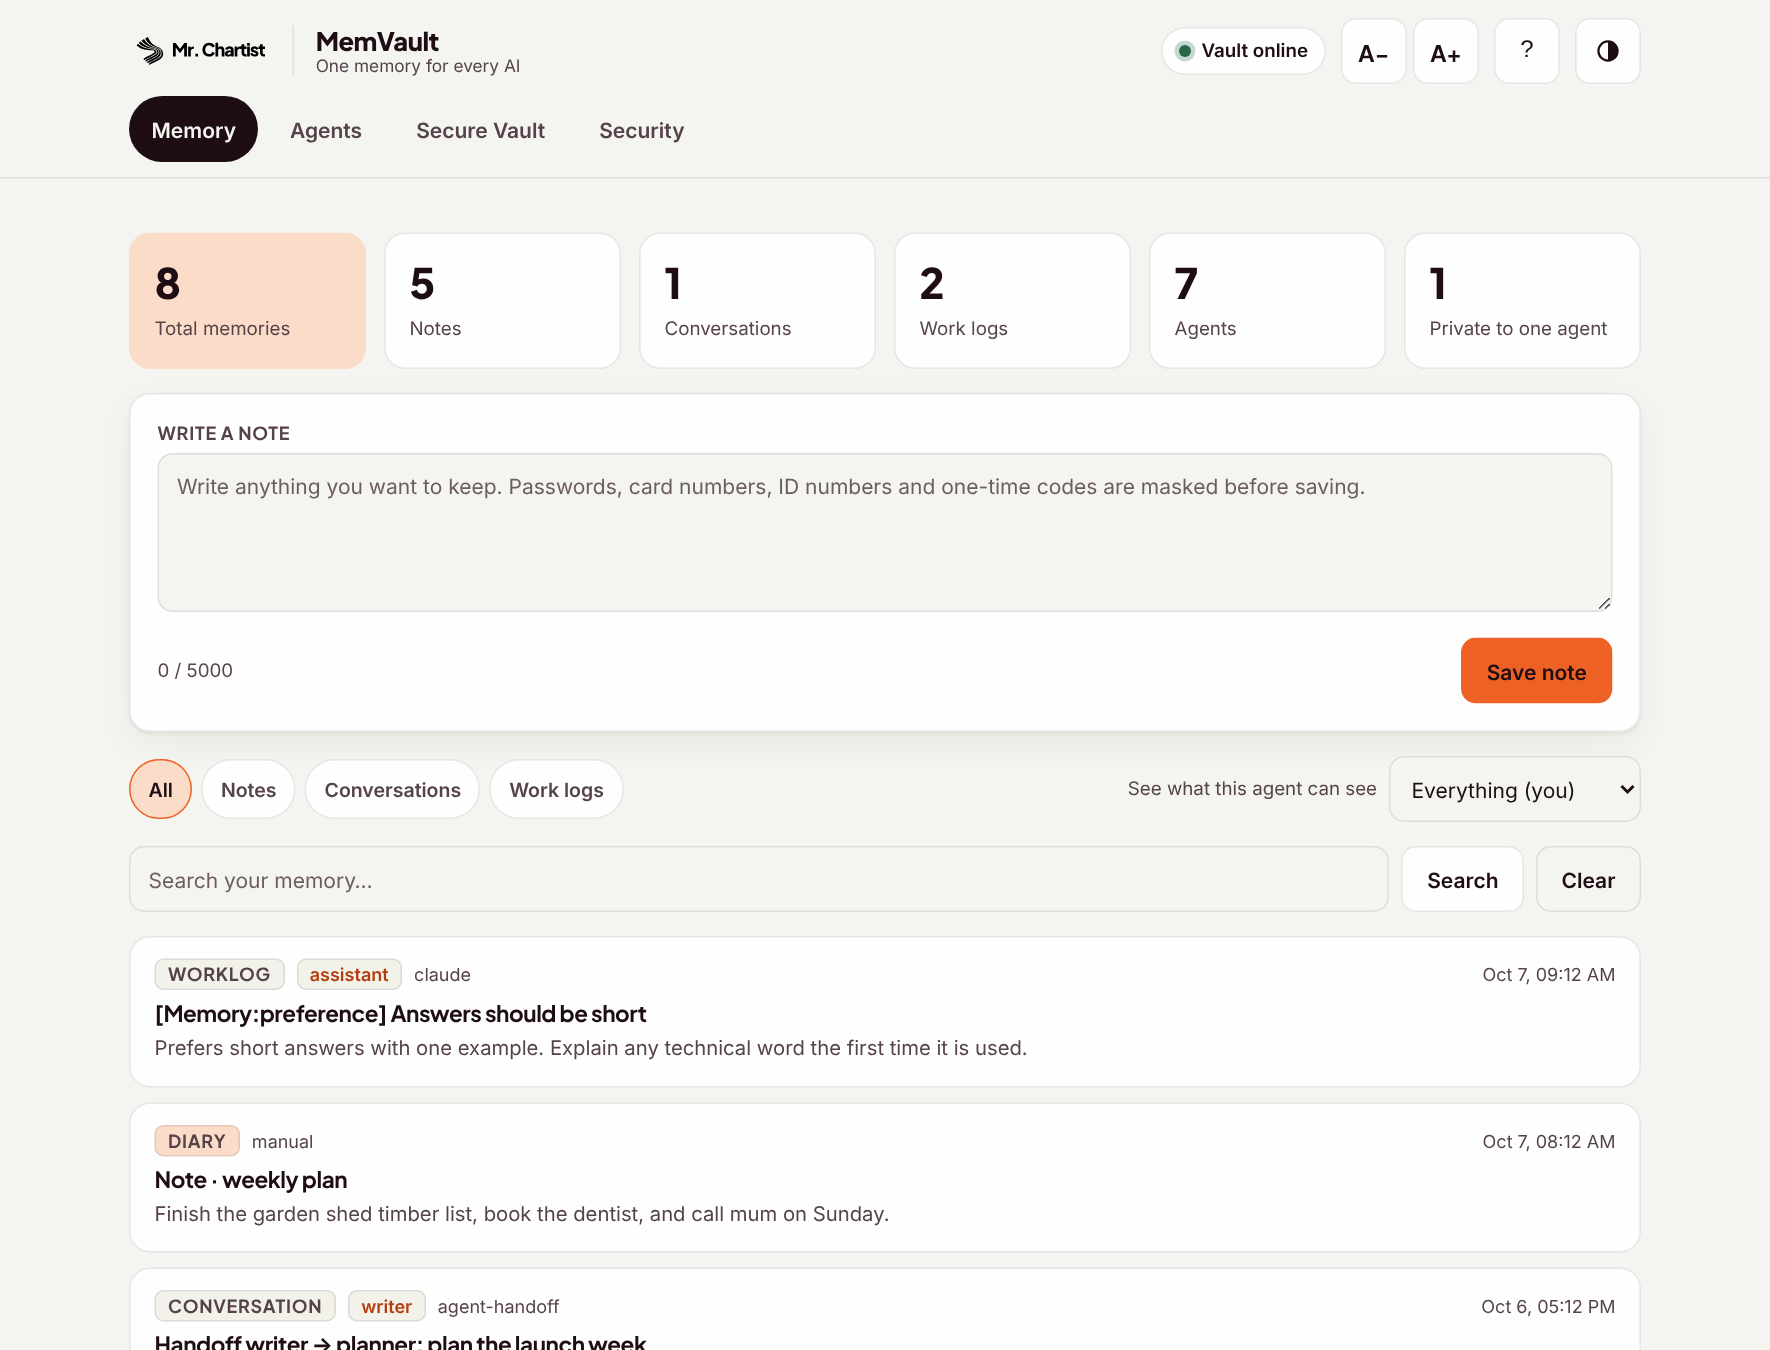
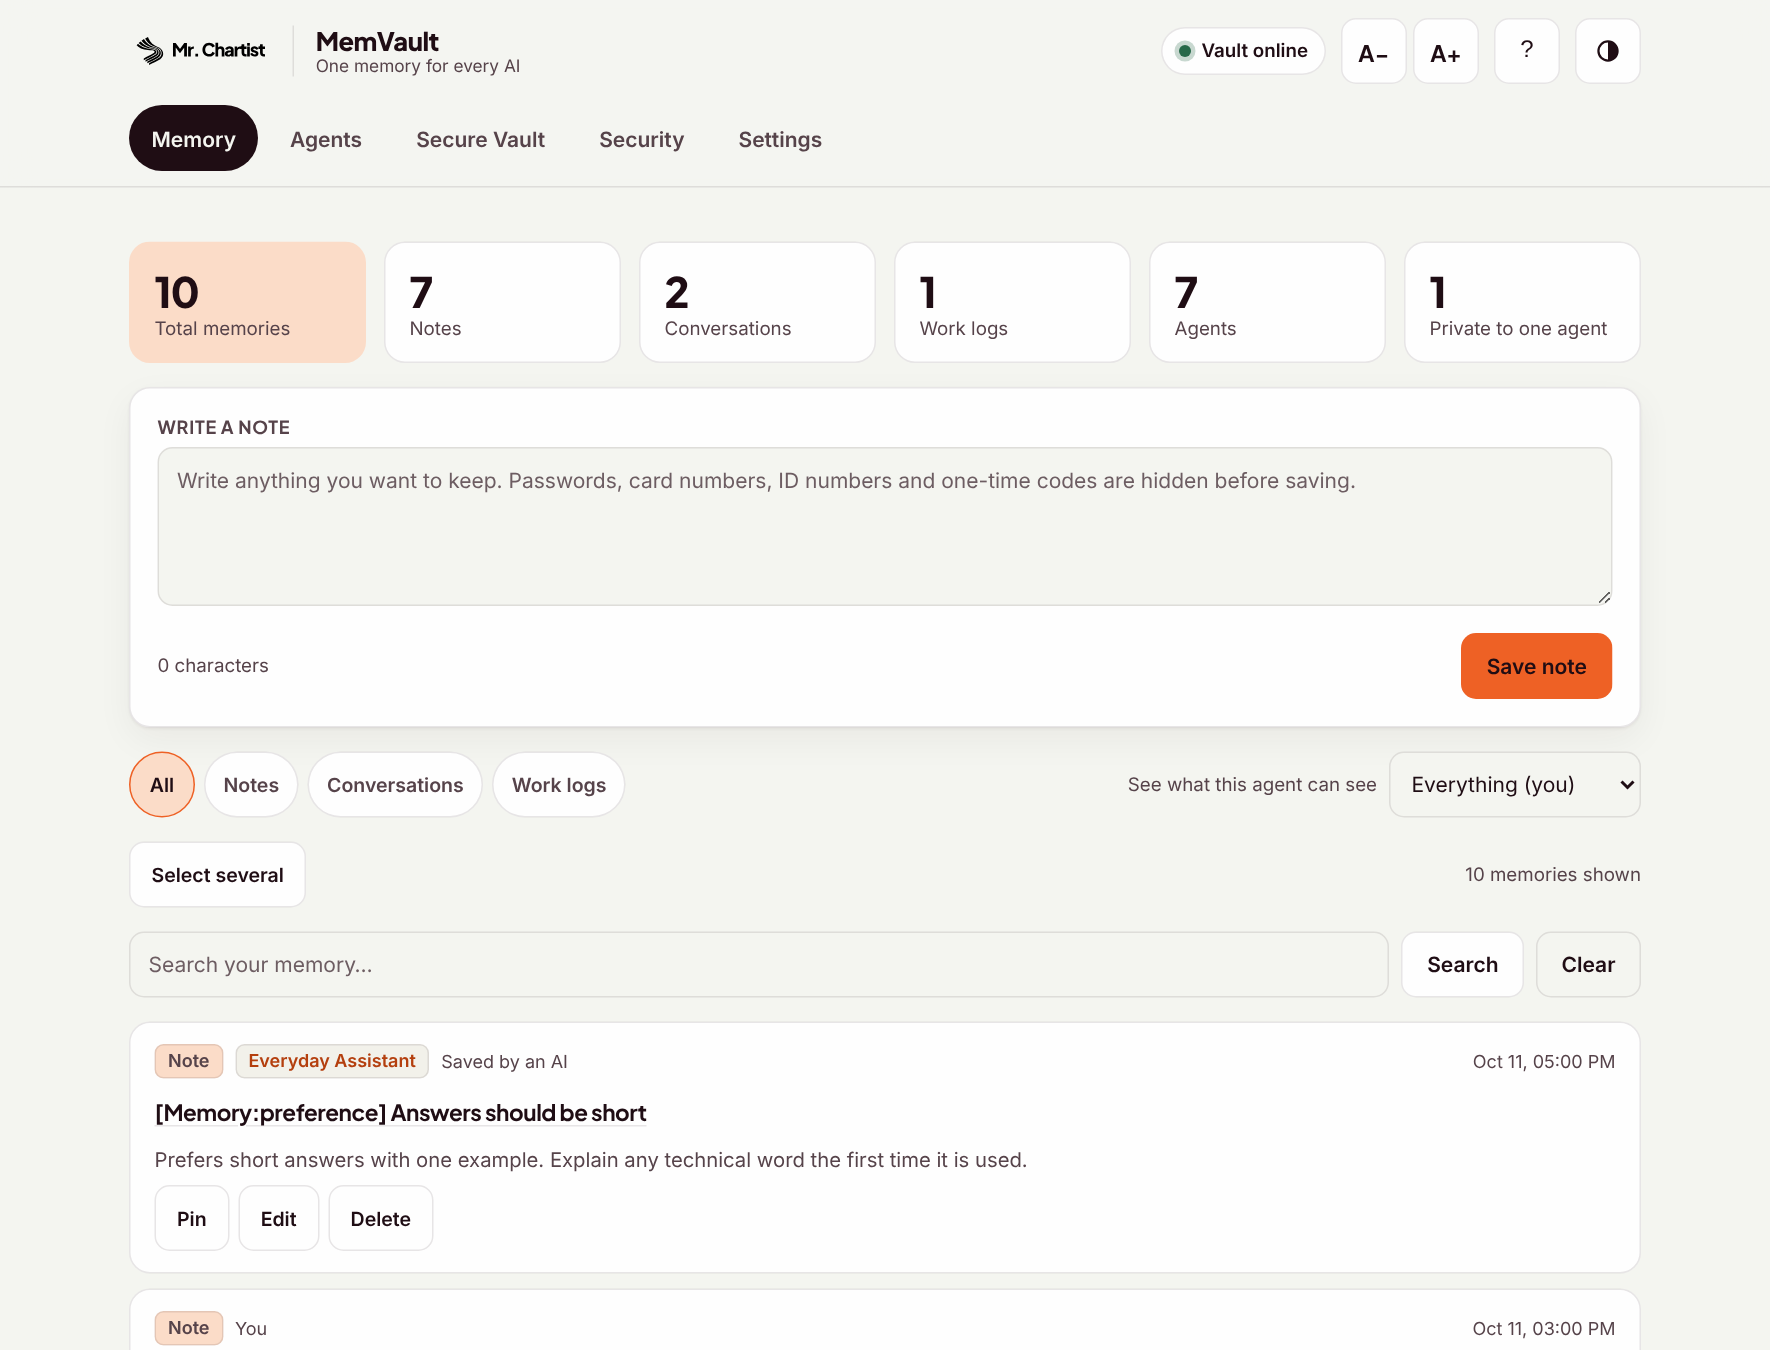
feat(site): fresh screenshots of the new dashboard, a devices screenshot, accessible page
- `npm run screenshots` retook every README and site screenshot from the
  current dashboard (the old ones had no Settings tab), plus a new
  docs/images/devices.png: "Your devices" with two other computers that
  really synced and a signed-in phone. The site folder now holds only the
  images the page shows.
- The page passes axe (WCAG 2.1 AA) at 1280, 768 and 390 px in light and dark:
  the small orange labels are a shade darker, and the command box can be
  scrolled with the keyboard. No sideways scroll, nothing loaded from other
  websites, no console errors when served over HTTP.
- README: the devices screenshot, and the agents screenshot is described
  with its current buttons.

Claude-Session: https://claude.ai/code/session_011kGZwkept6XR9brp3vrJKM

diff --git a/site/index.html b/site/index.html
@@ -70,6 +70,7 @@
   --primary: hsl(var(--orange-500));
   --primary-hover: hsl(var(--orange-400));
   --primary-text: hsl(17.9 85.5% 38%);
+  --primary-strong: hsl(17.9 85.5% 33%); /* small bold text on the orange wash: 4.5:1 or more */
   --on-primary: hsl(var(--ink-wine));
   --wash: hsl(var(--orange-100));
   --good: hsl(151.9 45.3% 28%);
@@ -98,6 +99,7 @@
   --line: hsl(var(--paper-1) / 0.1);
   --line-strong: hsl(var(--paper-1) / 0.18);
   --primary-text: hsl(var(--orange-500));
+  --primary-strong: hsl(var(--orange-400));
   --wash: hsl(var(--orange-500) / 0.16);
   --good: hsl(var(--bullish-300));
   --good-wash: hsl(147.5 30% 15.7%);
@@ -166,7 +168,7 @@ code, kbd { font-family: var(--mono); font-size: 0.9em; }
 
 /* ── hero ── */
 .hero { padding: clamp(48px, 8vw, 96px) 0 0; text-align: center; overflow: hidden; }
-.eyebrow { display: inline-flex; align-items: center; gap: 8px; font: 700 0.8rem/1 var(--display); letter-spacing: 0.08em; text-transform: uppercase; color: var(--primary-text); background: var(--wash); padding: 8px 14px; border-radius: 999px; }
+.eyebrow { display: inline-flex; align-items: center; gap: 8px; font: 700 0.8rem/1 var(--display); letter-spacing: 0.08em; text-transform: uppercase; color: var(--primary-strong); background: var(--wash); padding: 8px 14px; border-radius: 999px; }
 .hero h1 { font-size: clamp(2.4rem, 1.4rem + 4.6vw, 4.4rem); font-weight: 800; letter-spacing: -0.035em; line-height: 1.04; margin: 22px auto 0; max-width: 15ch; }
 .hero h1 em { font-style: normal; color: var(--primary-text); }
 .lead { font-size: clamp(1.1rem, 1rem + 0.5vw, 1.3rem); color: var(--muted); max-width: 40rem; margin: 22px auto 0; }
@@ -267,7 +269,7 @@ section { padding: clamp(64px, 9vw, 112px) 0; }
 .panel > p { color: var(--muted); margin-top: 8px; }
 .status { display: inline-flex; align-items: center; gap: 8px; font: 700 0.8rem/1 var(--display); letter-spacing: 0.04em; text-transform: uppercase; padding: 7px 12px; border-radius: 999px; margin-bottom: 14px; }
 .status.ok { background: var(--good-wash); color: var(--good); }
-.status.soon { background: var(--wash); color: var(--primary-text); }
+.status.soon { background: var(--wash); color: var(--primary-strong); }
 .code { margin-top: 18px; background: var(--code-bg); color: var(--code-fg); border-radius: 14px; border: 1px solid var(--line); overflow: hidden; }
 .code-bar { display: flex; align-items: center; justify-content: space-between; gap: 12px; padding: 6px 8px 6px 18px; border-bottom: 1px solid hsl(var(--paper-1) / 0.12); font: 600 0.8rem/1 var(--body); color: hsl(72 8% 70%); }
 .code pre { margin: 0; padding: 16px 18px 18px; overflow-x: auto; font: 0.9rem/1.8 var(--mono); }
@@ -455,8 +457,8 @@ section { padding: clamp(64px, 9vw, 112px) 0; }
       </ul>
       <div class="shot-frame">
         <div class="bar" aria-hidden="true"><i></i><i></i><i></i></div>
-        <img class="for-light" src="assets/img/memory-light.png" width="1770" height="1350" alt="The MemVault dashboard: counts of notes, conversations and agents, a box to write a note, and a list of recent memories.">
-        <img class="for-dark" src="assets/img/memory-dark.png" width="1770" height="1350" alt="The MemVault dashboard in the dark theme: counts of notes, conversations and agents, a box to write a note, and a list of recent memories.">
+        <img class="for-light" src="assets/img/dashboard.png" width="1770" height="1350" alt="The MemVault dashboard: counts of notes, conversations and agents, a box to write a note, and a list of recent memories.">
+        <img class="for-dark" src="assets/img/dashboard-dark.png" width="1770" height="1350" alt="The MemVault dashboard in the dark theme: counts of notes, conversations and agents, a box to write a note, and a list of recent memories.">
       </div>
     </div>
   </div>
@@ -529,7 +531,7 @@ section { padding: clamp(64px, 9vw, 112px) 0; }
         <div>
           <figure class="figure">
             <div class="frame">
-              <img class="for-light" src="assets/img/agents-light.png" width="1770" height="1290" loading="lazy" alt="The Agents screen: helper cards such as Coordinator, Everyday Assistant and Planner, each with buttons to copy its briefing or its connection settings.">
+              <img class="for-light" src="assets/img/agents.png" width="1770" height="1290" loading="lazy" alt="The Agents screen: helper cards such as Coordinator, Everyday Assistant and Planner, each with buttons to copy its briefing or its connection settings.">
               <img class="for-dark" src="assets/img/agents-dark.png" width="1770" height="1290" loading="lazy" alt="The Agents screen in the dark theme, with helper cards and buttons to copy each briefing or its connection settings.">
             </div>
           </figure>
@@ -645,7 +647,7 @@ section { padding: clamp(64px, 9vw, 112px) 0; }
           <p>Paste these lines into a terminal, one after another.</p>
           <div class="code">
             <div class="code-bar"><span>Terminal</span><button class="copy" type="button" data-copy="cmd-source" aria-label="Copy the install commands">Copy</button></div>
-<pre id="cmd-source"><code>git clone https://github.com/MrChartist/memvault.git
+<pre id="cmd-source" tabindex="0" aria-label="Install commands"><code>git clone https://github.com/MrChartist/memvault.git
 cd memvault
 npm install
 node cli.mjs setup       <span class="c"># one step, no questions</span>
@@ -670,7 +672,7 @@ node cli.mjs open        <span class="c"># opens the dashboard</span></code></pr
               <tr><th scope="row">Claude Desktop</th><td>Settings → Developer → Edit Config</td></tr>
               <tr><th scope="row">Cursor</th><td><code>~/.cursor/mcp.json</code></td></tr>
               <tr><th scope="row">Claude Code</th><td>Run the <code>claude mcp add …</code> command the dashboard shows you</td></tr>
-              <tr><th scope="row">Antigravity</th><td><code>~/.gemini/antigravity/mcp_config.json</code></td></tr>
+              <tr><th scope="row">Antigravity</th><td><code>~/.gemini/<wbr>antigravity/<wbr>mcp_config.json</code></td></tr>
               <tr><th scope="row">VS Code</th><td>The MCP settings of Cline or Roo</td></tr>
             </tbody>
           </table>

diff --git a/README.md b/README.md
@@ -97,7 +97,7 @@ An agent is a saved profile. It says who the helper is, how it should sound, wha
 
 `memvault agent packs` lists more starter sets. Make your own in the dashboard by describing the helper in your own words, or with `memvault agent create --from-file my-helper.txt --save`.
 
-<p align="center"><img src="docs/images/agents.png" alt="The Agents screen showing helper cards such as Coordinator, Everyday Assistant and Planner, each with buttons to copy its briefing or its connection settings." width="760"></p>
+<p align="center"><img src="docs/images/agents.png" alt="The Agents screen showing agent cards such as Coordinator, Everyday Assistant and Planner, each with buttons to copy its instructions or its connection settings." width="760"></p>
 
 **Memory spaces.** Every note lives in one space:
 
@@ -126,7 +126,11 @@ memvault devices passphrase    # use the same one on every computer
 memvault devices               # what is set up, and the other computers seen
 ```
 
-Or use **Settings → Your devices** in the dashboard. The Secure Vault, uploaded files and the access log stay on each computer. Claude on the iPhone cannot read MemVault yet. Step-by-step guides for a VPS, for no VPS, for a cloud folder and for the iPhone are in [docs/devices.md](docs/devices.md).
+Or use **Settings → Your devices** in the dashboard:
+
+<p align="center"><img src="docs/images/devices.png" alt="Settings, Your devices: syncing is on; two other computers, Linux VPS and MacBook, with how many memories each had; this computer's name and shared folder; the sync passphrase; and one signed-in iPhone with a Sign out button." width="640"></p>
+
+The Secure Vault, uploaded files and the access log stay on each computer. Claude on the iPhone cannot read MemVault yet. Step-by-step guides for a VPS, for no VPS, for a cloud folder and for the iPhone are in [docs/devices.md](docs/devices.md).
 
 ## Is it safe?
 
